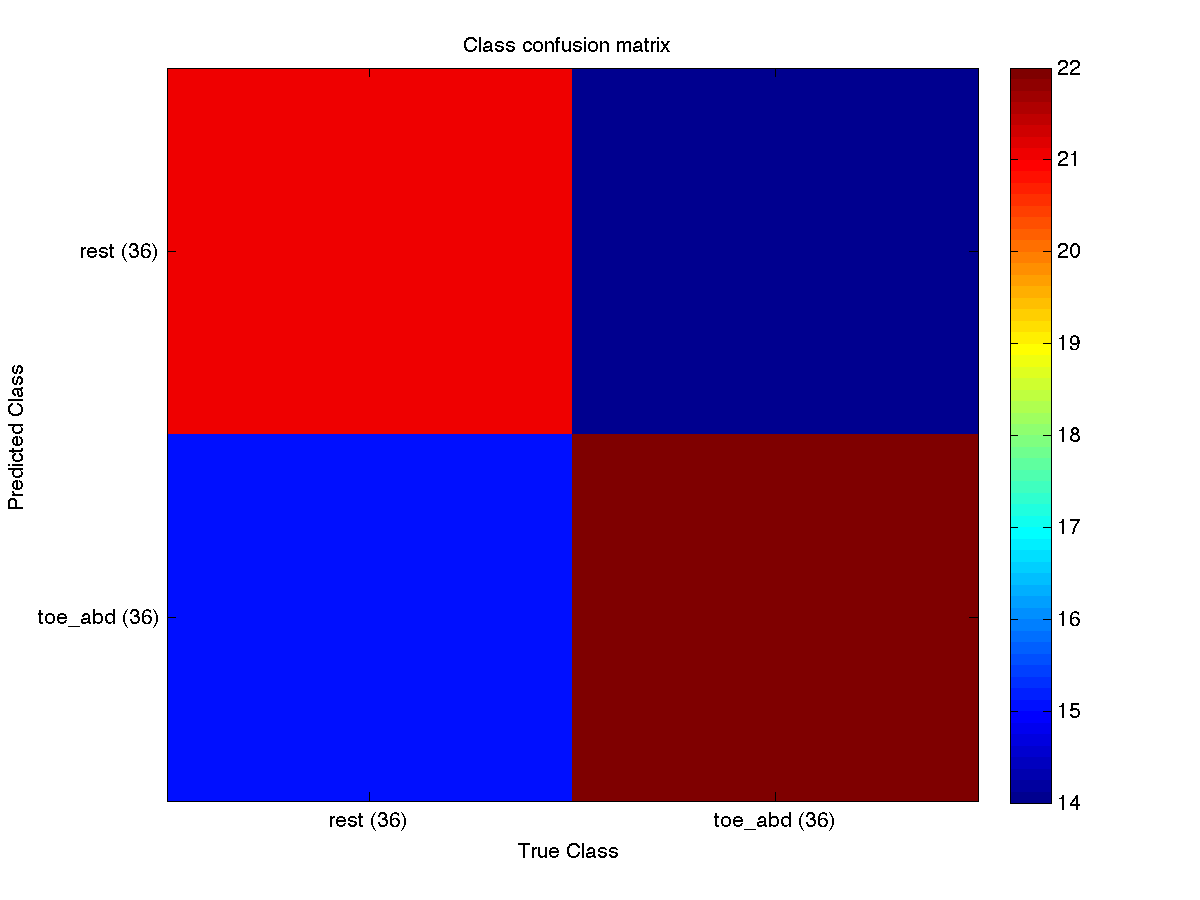
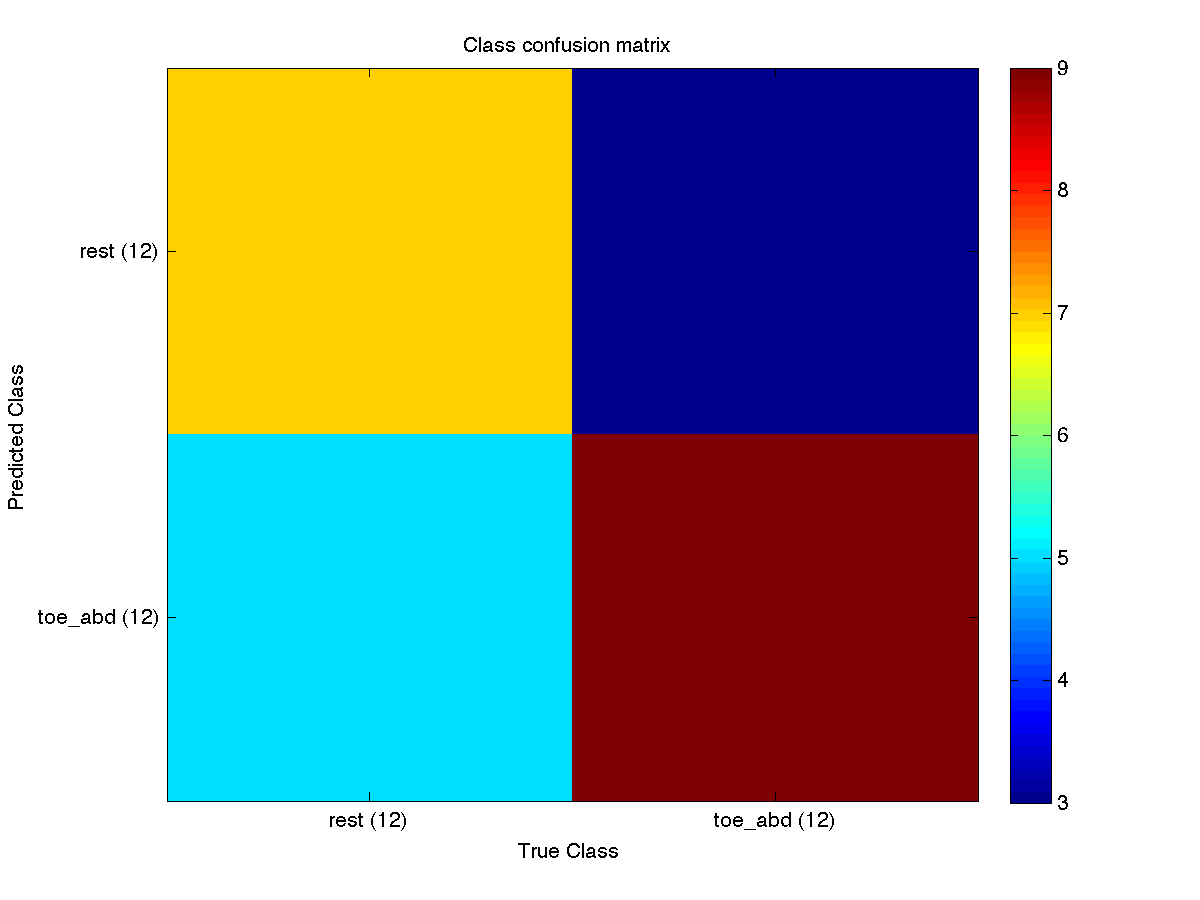
Add files via upload

Changed region(s): [[0.1233, 0.0622, 0.4933, 0.9333], [0.8633, 0.4667, 0.8942, 0.4978]]

diff --git a/Main_exp.m b/Main_exp.m
@@ -9,6 +9,8 @@ clear all; close all;
 
 configureMain_exp;
 
+sub = input('Subject (eg. "sub1"): ','s');
+
 %% Part I, training/calibration phase
 % similar to design used in first pilot
 
@@ -422,28 +424,14 @@ switch group
                     
                     timeleft = dur_trial - (getwTime()-trial_StartTime);
                 end
+                sound_endtrl; %trial end beep
                 clf;
                 sendEvent('trial','end');
             end
             
             sendEvent('block','end');
             
-            curr_points(i) = points;
-            
-            if i>1 % motivational text between blocks
-                if   curr_points(i)>round(dur_trial*num_trial/2) && (curr_points(i)-curr_points(i-1)>=0)
-                    motivtxt = 'Good job!';
-                    
-                elseif (curr_points(i)-curr_points(i-1)>=0)
-                    motivtxt = 'Getting there, you can do it!';
-                else
-                    motivtxt = 'You can do better.';
-                end
-                
-                feedtxt = sprintf('Your score is %0.1f.\n\n%s',points,motivtxt);
-            else
-                feedtxt = sprintf('Your score is %0.1f.',points);
-            end
+            points_fdbck; %script to give motivational text in end of block
             
             text(5,5,feedtxt,'Color',txtColor,'FontSize',txtSize_cue,'HorizontalAlignment','center');
             axis([0 10 0 10]);
@@ -571,28 +559,14 @@ switch group
                     timeleft = dur_trial - (getwTime()-trial_StartTime);
                     
                 end
+                sound_endtrl; %trial end beep
                 clf;
                 sendEvent('trial','end');
             end
             
             sendEvent('block','end');
             
-            curr_points(i) = points;
-            
-            if i>1 % motivational text between blocks
-                if   curr_points(i)>round(dur_trial*num_trial/2) && (curr_points(i)-curr_points(i-1)>=0)
-                    motivtxt = 'Good job!';
-                    
-                elseif (curr_points(i)-curr_points(i-1)>=0)
-                    motivtxt = 'Getting there, you can do it!';
-                else
-                    motivtxt = 'You can do better.';
-                end
-                
-                feedtxt = sprintf('Your score is %0.1f.\n\n%s',points,motivtxt);
-            else
-                feedtxt = sprintf('Your score is %0.1f.',points);
-            end
+            points_fdbck; %script to give motivational text in end of block
             
             text(5,5,feedtxt,'Color',txtColor,'FontSize',txtSize_cue,'HorizontalAlignment','center');
             axis([0 10 0 10]);
@@ -721,28 +695,14 @@ switch group
                     timeleft = dur_trial - (getwTime()-trial_StartTime);
                     
                 end
+                sound_endtrl; %trial end beep
                 clf;
                 sendEvent('trial','end');
             end
             
             sendEvent('block','end');
             
-            curr_points(i) = points;
-            
-            if i>1 % motivational text between blocks
-                if   curr_points(i)>round(dur_trial*num_trial/2) && (curr_points(i)-curr_points(i-1)>=0)
-                    motivtxt = 'Good job!';
-                    
-                elseif (curr_points(i)-curr_points(i-1)>=0)
-                    motivtxt = 'Getting there, you can do it!';
-                else
-                    motivtxt = 'You can do better.';
-                end
-                
-                feedtxt = sprintf('Your score is %0.1f.\n\n%s',points,motivtxt);
-            else
-                feedtxt = sprintf('Your score is %0.1f.',points);
-            end
+            points_fdbck; %script to give motivational text in end of block
             
             text(5,5,feedtxt,'Color',txtColor,'FontSize',txtSize_cue,'HorizontalAlignment','center');
             axis([0 10 0 10]);
@@ -766,11 +726,12 @@ end
 
 sendEvent('testing','end'); % start continuous feedback phase
 
+%save interesting variables
 if group == 1 || group == 3
     endSrlPort(srl); %close serial por communication
+    save([sub '_info.mat'], 'curr_points','points_abd','points_rest','task','angle')
 else
-    sub = input('Subject: ','s');
-    save([sub '_info.mat'], 'curr_points','task')
+    save([sub '_info.mat'], 'curr_points','points_abd','points_rest','task')
 end
 
 text(0,6,goodbyetxtII,'Color',txtColor,'FontSize',txtSize_wlc);

diff --git a/configureMain_exp.m b/configureMain_exp.m
@@ -35,8 +35,8 @@ txtSize_cue = 70;%50;                        %cue text size
 dur_trial_cal = 5;                              %trial duration [s]
 dur_iti_cal = 3;                                % inter-trial-interval [s]
 
-num_trial_cal = 3;%2;                          % number of trials in one block
-num_block_cal = 6;%24;%3;                             % number of blocks
+num_trial_cal = 2;%3;%2;                          % number of trials in one block
+num_block_cal = 3;%24;%3;                             % number of blocks
 
 cond_cal = 3;                                   % number of conditions being tested
 cond_name_cal = {'abduct your toe','flex your toes','do not move'};
@@ -68,7 +68,8 @@ welcometxt2 = sprintf(['\n\nIn the first block you will have to abduct your righ
     '\n\n\nPress the spacebar to hear an example...']);
 
 welcometxt3 = sprintf(['\n\nWhen you hear the high pitch, please start the movement.' ...
-    '\nAfter a few seconds you will hear a low beep, indicating that the trial is finished.'...
+    '\nAfter a few seconds you will hear a low beep,'...
+    '\nindicating that the trial is finished.'...
     '\n\nYou can move your toe as many times as you wish,'...
     '\nbetween these two cues.' ...
     '\n\nTry to keep your other toes still,'...
@@ -101,7 +102,7 @@ dur_trial = 12;                              %trial duration main[s]
 dur_iti = 4.5;                                % inter-trial-interval [s]
 
 num_trial = 3;%2;                          % number of trials in one block
-num_block = 6;%50;%6;                             % number of blocks
+num_block = 6;%50;                             % number of blocks
 
 cond = 2;                                   % number of conditions being tested
 cond_name = {'abduct your toe','do not move'};
@@ -116,6 +117,7 @@ num = zeros(1,length(type)); %number of blocks per condition, matrix of 1xcond
 end_cond = round(num_block/cond); %max number of blocks per condition
 points = 0; %performance feedback counter
 curr_points = zeros(1,num_block); %points obtained in the end of each block
+u = 1; t = 1; %counters to use in interblock feedback
 
 thresh = 0.9;%0.95; %threshold to reach before giving feedback
 
@@ -135,7 +137,9 @@ welcometxtII_2 = sprintf(['\n\nThis part of the experiment is similar to' ...
     '\n\n\nPress the spacebar to continue...']);
 
 welcometxtII_3_1 = sprintf(['\n\nWhen you hear the cue please perform the required movement.'...
-    '\n\nDuring the trial you will receive \nfeedback from the robot, according to your performance.' ...
+    '\n\nDuring the trial you will see \nthe score of your performance on the screen.' ...
+    '\n\nAdditionally, when trying to abduct,'...
+    '\nyou will receive feedback from the robot.' ...
     '\n\nUse this information to correct your movement.'...
     '\n\nIf you stay relaxed and don''t move the rest of your body,'...
     '\nyour performance will be better.' ...

diff --git a/points_fdbck.m b/points_fdbck.m
@@ -1,0 +1,51 @@
+%function [feedtxt,points] = points_fdbck(i,u,t,points,label,dur_trial,num_trial )
+%UNTITLED2 Summary of this function goes here
+%   Detailed explanation goes here
+
+curr_points(i) = points;
+
+if strcmp(label,'rest')==1
+    points_rest(u) = curr_points(i);
+    u = u+1;
+else
+    points_abd(t) = curr_points(i);
+    t = t+1;
+end
+
+if i>1 % motivational text between blocks
+    
+    if u>2 && strcmp(label,'rest')==1 %rest blocks
+        
+        if  points_rest(u-1)>round(dur_trial*num_trial/2) && (points_rest(u-1)-points_rest(u-2)>=0)
+            motivtxt = 'Good job!';
+            
+        elseif (points_rest(u-1)-points_rest(u-2)>=0)
+            motivtxt = 'Getting there, you can do it!';
+        else
+            motivtxt = 'You can do better.';
+        end
+        
+        feedtxt = sprintf('Your score is %0.1f.\n\n%s',points,motivtxt);
+        
+    elseif t>2 && strcmp(label,'rest')==0 %abd blocks
+        
+        if  points_abd(t-1)>round(dur_trial*num_trial/2) && (points_abd(t-1)-points_abd(t-2)>=0)
+            motivtxt = 'Good job!';
+            
+        elseif (points_abd(t-1)-points_abd(t-2)>=0)
+            motivtxt = 'Getting there, you can do it!';
+        else
+            motivtxt = 'You can do better.';
+        end
+        
+        feedtxt = sprintf('Your score is %0.1f.\n\n%s',points,motivtxt);
+    else
+        feedtxt = sprintf('Your score is %0.1f.',points);
+    end
+    
+else %for first block
+    feedtxt = sprintf('Your score is %0.1f.',points);
+end
+
+%end
+

diff --git a/Data_cut_window_online.m b/Data_cut_window_online.m
@@ -41,7 +41,7 @@ for i=1:num_wind   %loop to concatenate several train_wndow within same 5s trial
     for m = 1:length(traindevents) %number of events/epochs     
         for h = 1:hdr.nchans %number of channels         
             for k = 1:smp_train_wndow %window that we want to slice              
-                data_AvsB(m).buf(h,k) = traindata(m).buf(h,smp_offset+k);
+                data_AvsB(m).buf(h,k) = traindata(m).buf(h,smp_offset+k)
             end
         end
     end
